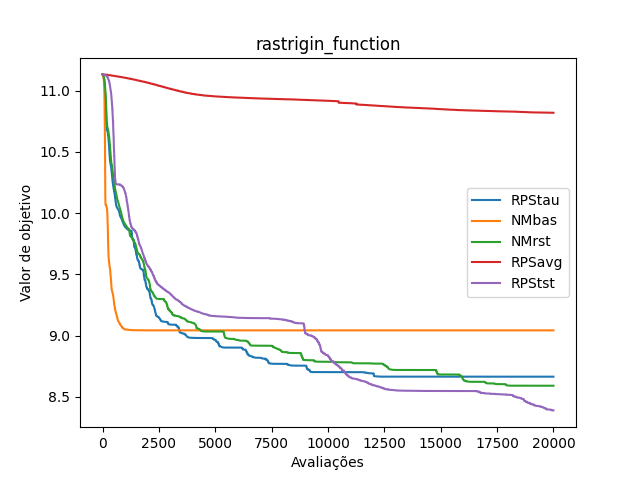
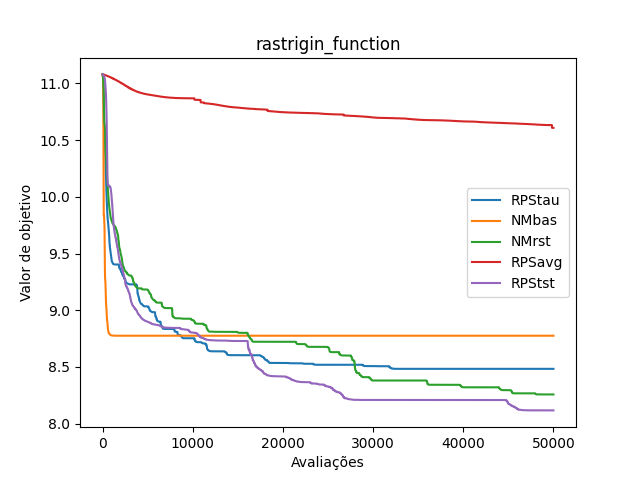
teste com 50K

diff --git a/testar_convergencia.py b/testar_convergencia.py
@@ -28,7 +28,7 @@ for metodo in metodos:
         print("Parametros de " + metodo + " nao encontrados")
         params[metodo] = {}
 
-opts = {"lu": [(-100, 100)], "qtd": 15, "dim": 20, "max_avals": 20000}
+opts = {"lu": [(-100, 100)], "qtd": 15, "dim": 20, "max_avals": 50000}
 
 qtd = opts["qtd"]
 dim = opts["dim"]
